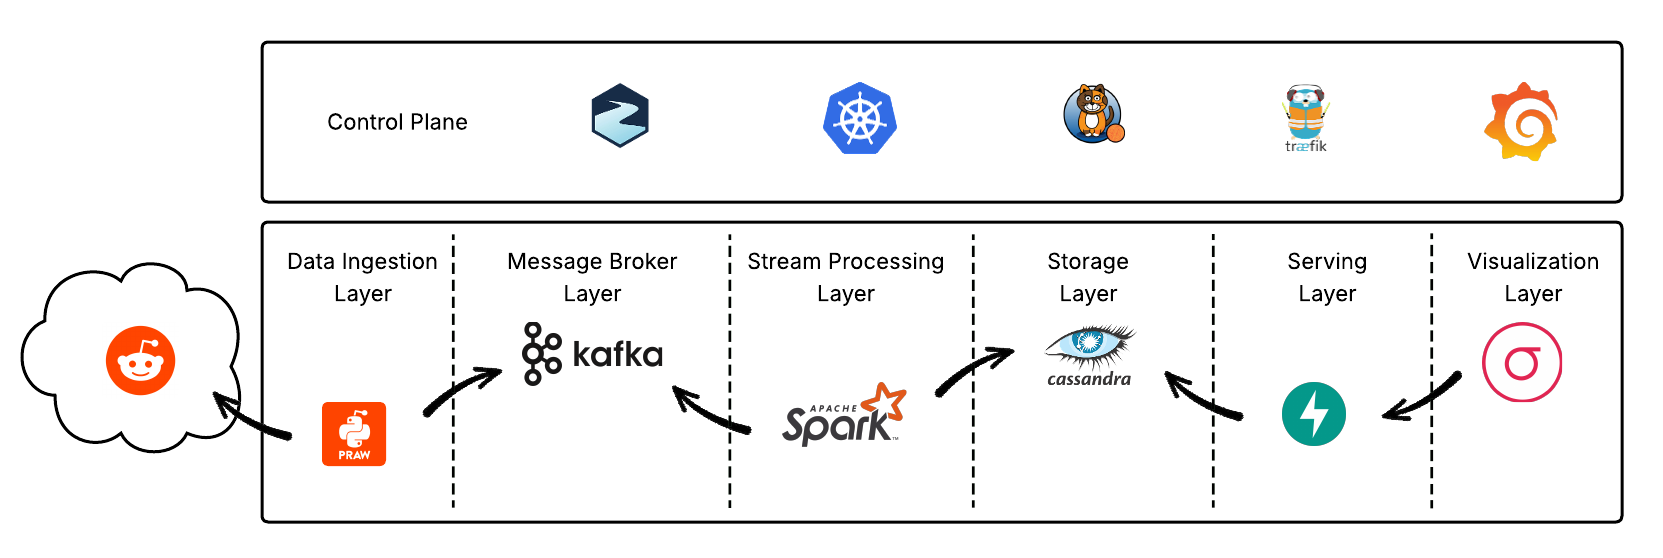
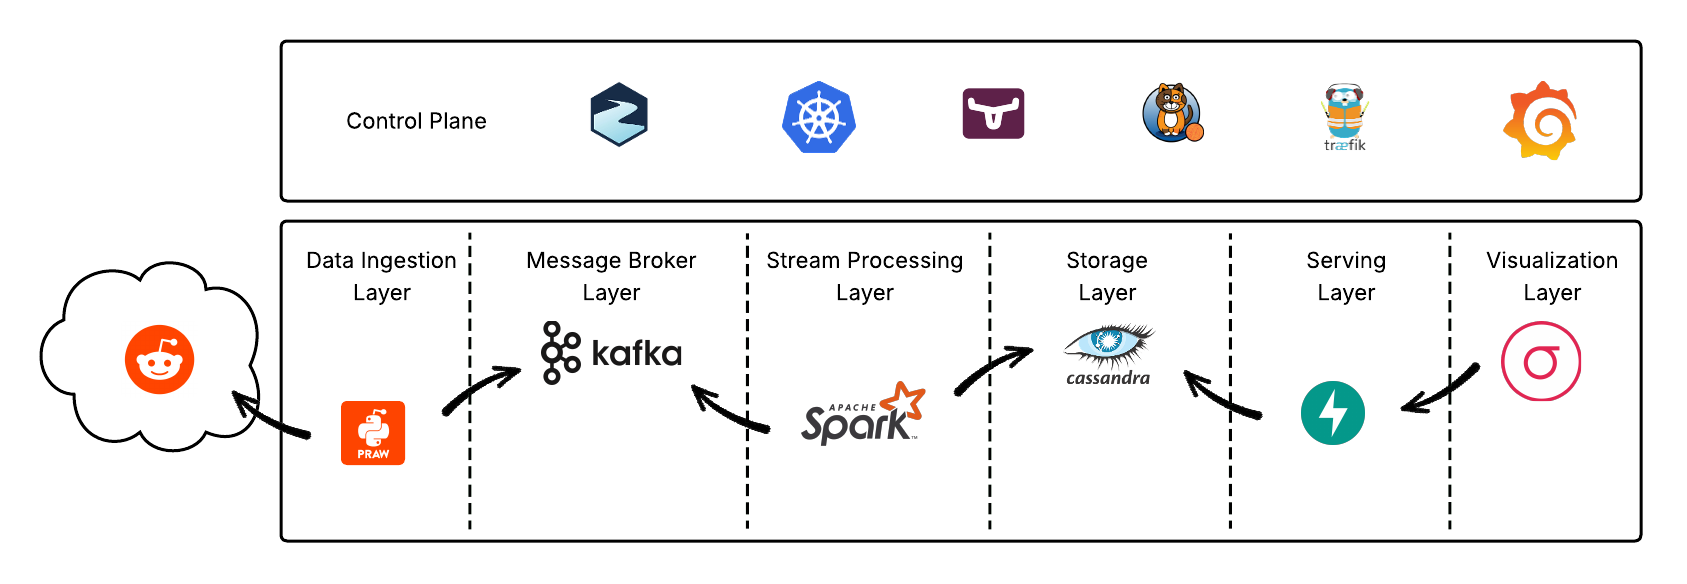
Updated README

diff --git a/README.md b/README.md
@@ -4,28 +4,29 @@ A distributed application for real-time visualization, in the form of a graph, o
 
 ## 📚 Description
 
-The complete pipeline is as follows:
+The complete pipeline of the application is as follows:
 1. Collection of information from the top 1,000 hot Reddit posts from the last 24 hours
 2. Analysis of the posts to extract the main keywords and their associated sentiment
 3. Creation of correlations between keywords based on their co-occurrence within the same post
 4. Graph-based visualization of the most important keywords and their related sentiments
 
+## 🖼 Overview
+
+![overview](assets/overview.png)
+
 ## 🚀 Tech Stack
-
-### 🔧 Control Plane
-
 - **Kubernetes**: Container orchestration for deploying and managing services.
+- **Longhorn**: Cloud-native distributed block storage system for managing persistent volumes in Kubernetes.
 - **Strimzi**: Kafka operator for running Apache Kafka on Kubernetes.
 - **Calico**: Kubernetes networking and network policy enforcement.
 - **Traefik**: Ingress controller for routing external traffic into the cluster.
 - **Grafana**: Monitoring dashboard for system metrics (CPU, RAM, etc.).
-
-### 📡 Data Plane
 - **Kafka**: Real-time streaming of Reddit post data.
 - **Spark**: Processing pipeline for keyword extraction, sentiment analysis, and correlation computation.
 - **Cassandra**: Scalable distributed database for storing graph-related data.
 - **FastAPI**: Lightweight Python web framework for exposing data to the frontend.
-- **Graphology & Sigma.js**: Visualization stack for rendering interactive keyword graphs in the browser.
+- **React.js & Graphology & Sigma.js**: Visualization stack for rendering interactive keyword graphs in the browser.
+- **PRAW**: Python Reddit API Wrapper for programmatically accessing and retrieving Reddit post data.
 
 ## ⚙ Architecture
 
